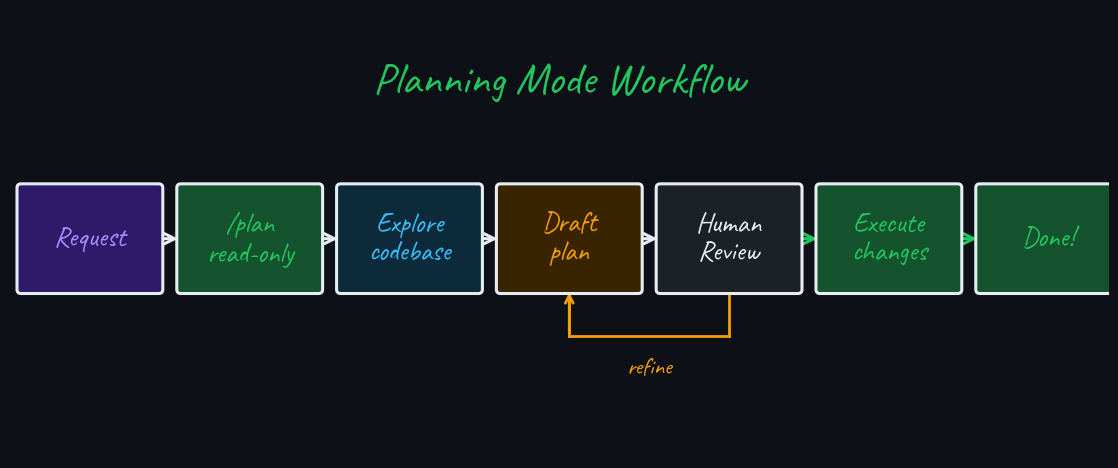
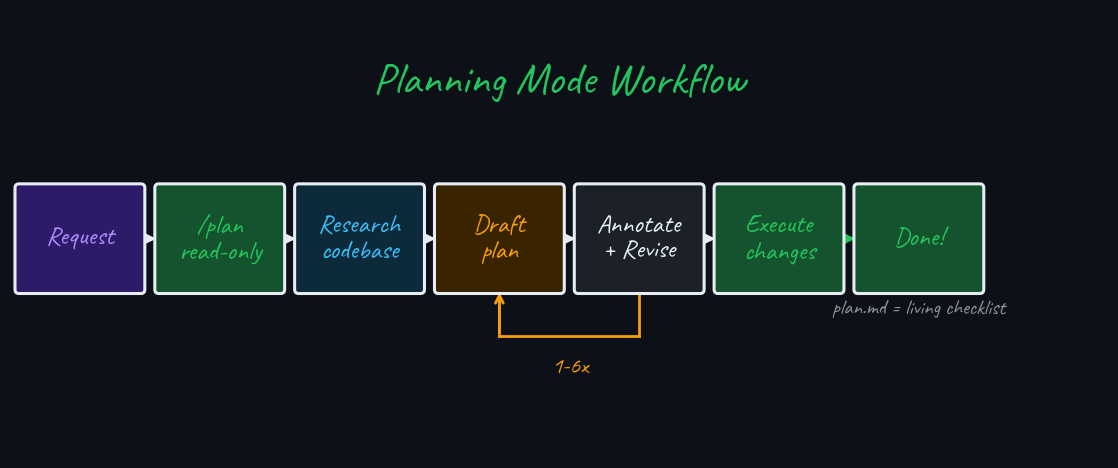
add resources slide

diff --git a/media/generate_diagrams.py b/media/generate_diagrams.py
@@ -336,31 +336,35 @@ def make_07():
     title(ax, 11, 4.5, 'Planning Mode Workflow')
 
     nodes = [
-        (0.80,  2.20, DPUR, PUR, 'Request'),
-        (2.40,  2.20, DGRN, GRN, '/plan\nread-only'),
-        (4.00,  2.20, DBLU, BLU, 'Explore\ncodebase'),
-        (5.60,  2.20, DAMB, AMB, 'Draft\nplan'),
-        (7.20,  2.20, CARD, TXT, 'Human\nReview'),
-        (8.80,  2.20, DGRN, GRN, 'Execute\nchanges'),
-        (10.40, 2.20, DGRN, GRN, 'Done!'),
+        (0.70,  2.20, DPUR, PUR, 'Request'),
+        (2.10,  2.20, DGRN, GRN, '/plan\nread-only'),
+        (3.50,  2.20, DBLU, BLU, 'Research\ncodebase'),
+        (4.90,  2.20, DAMB, AMB, 'Draft\nplan'),
+        (6.30,  2.20, CARD, TXT, 'Annotate\n+ Revise'),
+        (7.70,  2.20, DGRN, GRN, 'Execute\nchanges'),
+        (9.10,  2.20, DGRN, GRN, 'Done!'),
     ]
-    bw, bh = 1.38, 1.02
+    bw, bh = 1.22, 1.02
     for x, y, fc, tc, lbl_text in nodes:
-        box(ax, x, y, bw, bh, fc, lbl_text, fs=20, tc=tc)
+        box(ax, x, y, bw, bh, fc, lbl_text, fs=19, tc=tc)
 
     for i in range(len(nodes) - 1):
-        col = GRN if i >= 4 else TXT
+        col = GRN if i >= 5 else TXT
         arr(ax, nodes[i][0] + bw/2, 2.20, nodes[i+1][0] - bw/2, 2.20, col=col)
 
-    # Refine loop below nodes
+    # Annotation loop below nodes (Draft → Annotate+Revise)
     ry, ry2 = 1.22, 1.69
-    ax.plot([5.60, 5.60], [ry, ry2], color=AMB, lw=2.0, zorder=2)
-    ax.plot([7.20, 7.20], [ry, ry2], color=AMB, lw=2.0, zorder=2)
-    ax.plot([5.60, 7.20], [ry, ry], color=AMB, lw=2.0, zorder=2)
-    ax.annotate('', xy=(5.60, ry2), xytext=(5.60, ry + 0.01),
+    ax.plot([4.90, 4.90], [ry, ry2], color=AMB, lw=2.0, zorder=2)
+    ax.plot([6.30, 6.30], [ry, ry2], color=AMB, lw=2.0, zorder=2)
+    ax.plot([4.90, 6.30], [ry, ry], color=AMB, lw=2.0, zorder=2)
+    ax.annotate('', xy=(4.90, ry2), xytext=(4.90, ry + 0.01),
                 arrowprops=dict(arrowstyle='->', color=AMB, lw=2.0, mutation_scale=14),
                 zorder=2)
-    lbl(ax, 6.40, 0.90, 'refine', col=AMB, fs=17)
+    lbl(ax, 5.60, 0.90, '1-6x', col=AMB, fs=17)
+
+    # Annotation below Done node
+    ax.text(9.10, 1.50, 'plan.md = living checklist', ha='center', va='center',
+            fontsize=15, color=MUT, style='italic', zorder=5)
 
     save(fig, 'diag-07-planning-mode.png')
 